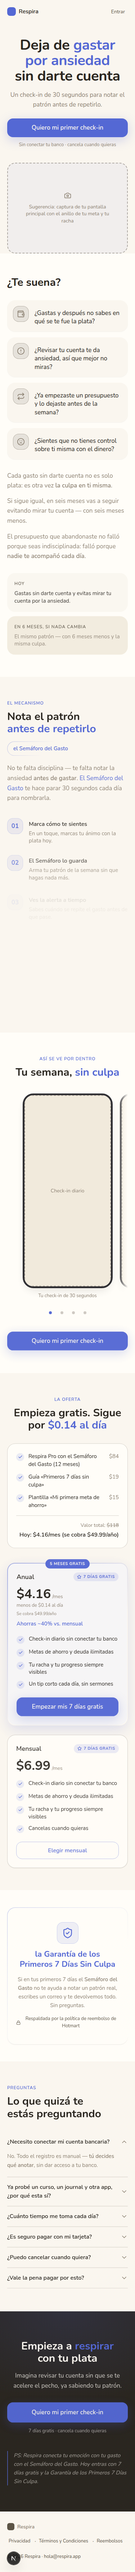
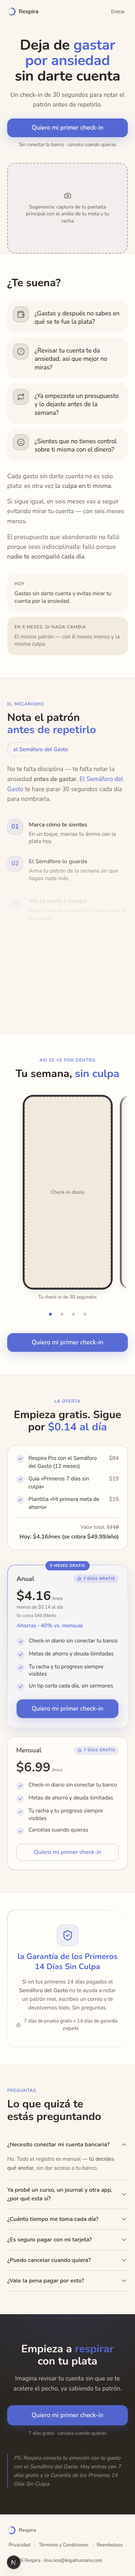
Corrige los 5 defectos del revisor-visual y completa datos legales
- /onboarding y /entrar dejan de dar 404 (páginas honestas "en construcción")
  + not-found.tsx de marca
- Contraste de --text-secondary corregido a AA (6B6152, antes 8C8172 daba 3.55:1)
- Hairline de separación real entre secciones base/elevada (ui.tsx)
- Anillo de respiración (RespiraMark) plantado en header y footer
- CTAs de la oferta unificados al mismo verbo/beneficio
- Páginas legales completadas con los datos del responsable (Lina Rios, Colombia)

Claude-Session: https://claude.ai/code/session_013BYtLeMwZuWh58hVzwvyD5

diff --git a/app/privacidad/page.tsx b/app/privacidad/page.tsx
@@ -7,13 +7,13 @@ export default function Privacidad() {
         Política de Privacidad
       </h1>
       <p className="mt-2 text-sm text-[var(--text-tertiary)]">
-        Última actualización: [pendiente — se completa al confirmar el responsable y el dominio]
+        Última actualización: 17 de septiembre de 2026
       </p>
 
       <div className="mt-8 flex flex-col gap-6 text-base leading-relaxed text-[var(--text-secondary)]">
         <p>
-          Respira (&quot;la app&quot;) es operada por [Nombre o razón social del responsable], con
-          domicilio en [país]. Esta política explica qué datos recopilamos, cómo los usamos y cómo
+          Respira (&quot;la app&quot;) es operada por Lina Rios, con
+          domicilio en Colombia. Esta política explica qué datos recopilamos, cómo los usamos y cómo
           puedes controlarlos.
         </p>
 
@@ -44,7 +44,7 @@ export default function Privacidad() {
           <h2 className="text-lg font-semibold text-[var(--text-primary)]">Cómo eliminar tus datos</h2>
           <p className="mt-2">
             Puedes pedir la eliminación completa de tu cuenta y tus datos escribiendo a{" "}
-            <a href="mailto:hola@respira.app" className="underline underline-offset-4">hola@respira.app</a>.
+            <a href="mailto:lina.rios@ikigaihumano.com" className="underline underline-offset-4">lina.rios@ikigaihumano.com</a>.
             Procesamos la solicitud en un plazo razonable y te confirmamos por correo.
           </p>
         </section>
@@ -53,7 +53,7 @@ export default function Privacidad() {
           <h2 className="text-lg font-semibold text-[var(--text-primary)]">Contacto</h2>
           <p className="mt-2">
             Para cualquier duda sobre esta política, escribe a{" "}
-            <a href="mailto:hola@respira.app" className="underline underline-offset-4">hola@respira.app</a>.
+            <a href="mailto:lina.rios@ikigaihumano.com" className="underline underline-offset-4">lina.rios@ikigaihumano.com</a>.
           </p>
         </section>
 

diff --git a/app/page.tsx b/app/page.tsx
@@ -12,6 +12,7 @@ import { Faq } from "@/components/landing/Faq";
 import { CtaFinal } from "@/components/landing/CtaFinal";
 import { FooterLegal } from "@/components/landing/FooterLegal";
 import { StickyCtaMobile } from "@/components/landing/ui";
+import { RespiraMark } from "@/components/RespiraMark";
 
 // Modelo onboarding-first (02C/ESTADO.md): el CTA lleva al onboarding gratis,
 // nunca directo al checkout — el pago se cierra en el paywall in-app (Sesión 4).
@@ -24,6 +25,7 @@ export default function LandingRespira() {
       {/* 1. HERO */}
       <Hero
         appName="Respira"
+        logo={<RespiraMark />}
         loginHref="/entrar"
         h1Marked="Deja de [acento]gastar por ansiedad[/acento] sin darte cuenta"
         subtitleMarked="Un check-in de 30 segundos para notar el patrón antes de repetirlo."
@@ -110,7 +112,7 @@ export default function LandingRespira() {
           totalAnual: "Se cobra $49.99/año",
           ahorro: "Ahorras ~40% vs. mensual",
           descomposicionDia: "menos de $0.14 al día",
-          ctaLabel: "Empezar mis 7 días gratis",
+          ctaLabel: CTA_LABEL,
           ctaHref: CTA_HREF,
           features: [
             "Check-in diario sin conectar tu banco",
@@ -122,7 +124,7 @@ export default function LandingRespira() {
         mensual={{
           nombre: "Mensual",
           precioMes: "$6.99",
-          ctaLabel: "Elegir mensual",
+          ctaLabel: CTA_LABEL,
           ctaHref: CTA_HREF,
           features: [
             "Check-in diario sin conectar tu banco",
@@ -189,7 +191,8 @@ export default function LandingRespira() {
       {/* 10. FOOTER LEGAL */}
       <FooterLegal
         appName="Respira"
-        soporteEmail="hola@respira.app"
+        logo={<RespiraMark />}
+        soporteEmail="lina.rios@ikigaihumano.com"
         enlaces={[
           { label: "Privacidad", href: "/privacidad" },
           { label: "Términos y Condiciones", href: "/terminos" },

diff --git a/app/reembolsos/page.tsx b/app/reembolsos/page.tsx
@@ -19,7 +19,7 @@ export default function Reembolsos() {
             Tienes 7 días de prueba gratis para probar Respira sin que se te cobre nada. Si ya
             pagaste y en tus primeros 14 días con el Semáforo del Gasto no logras notar un
             patrón real, escríbenos a{" "}
-            <a href="mailto:hola@respira.app" className="underline underline-offset-4">hola@respira.app</a>{" "}
+            <a href="mailto:lina.rios@ikigaihumano.com" className="underline underline-offset-4">lina.rios@ikigaihumano.com</a>{" "}
             y te devolvemos todo. Sin preguntas, sin formularios.
           </p>
         </section>
@@ -36,7 +36,7 @@ export default function Reembolsos() {
         <section>
           <h2 className="text-lg font-semibold text-[var(--text-primary)]">Cómo pedir un reembolso</h2>
           <ol className="mt-2 list-decimal pl-5">
-            <li>Escribe a <a href="mailto:hola@respira.app" className="underline underline-offset-4">hola@respira.app</a> desde el correo con el que compraste.</li>
+            <li>Escribe a <a href="mailto:lina.rios@ikigaihumano.com" className="underline underline-offset-4">lina.rios@ikigaihumano.com</a> desde el correo con el que compraste.</li>
             <li>Cuéntanos brevemente qué pasó (no es obligatorio, pero nos ayuda a mejorar).</li>
             <li>Procesamos la devolución a través de Hotmart en los plazos que su plataforma indique.</li>
           </ol>

diff --git a/app/terminos/page.tsx b/app/terminos/page.tsx
@@ -7,7 +7,7 @@ export default function Terminos() {
         Términos y Condiciones
       </h1>
       <p className="mt-2 text-sm text-[var(--text-tertiary)]">
-        Última actualización: [pendiente — se completa al confirmar el responsable y el dominio]
+        Última actualización: 17 de septiembre de 2026
       </p>
 
       <div className="mt-8 flex flex-col gap-6 text-base leading-relaxed text-[var(--text-secondary)]">
@@ -57,7 +57,7 @@ export default function Terminos() {
         <section>
           <h2 className="text-lg font-semibold text-[var(--text-primary)]">Ley aplicable</h2>
           <p className="mt-2">
-            Estos términos se rigen por las leyes de [país del responsable]. Cualquier disputa se
+            Estos términos se rigen por las leyes de Colombia. Cualquier disputa se
             resuelve ante los tribunales competentes de esa jurisdicción.
           </p>
         </section>
@@ -65,7 +65,7 @@ export default function Terminos() {
         <section>
           <h2 className="text-lg font-semibold text-[var(--text-primary)]">Contacto</h2>
           <p className="mt-2">
-            <a href="mailto:hola@respira.app" className="underline underline-offset-4">hola@respira.app</a>
+            <a href="mailto:lina.rios@ikigaihumano.com" className="underline underline-offset-4">lina.rios@ikigaihumano.com</a>
           </p>
         </section>
 

diff --git a/components/landing/ui.tsx b/components/landing/ui.tsx
@@ -109,11 +109,16 @@ export function SectionShell({
 }) {
   const pt = flush === 'top' ? 'pt-0' : compacta ? 'pt-12 md:pt-16' : 'pt-16 md:pt-24';
   const pb = flush === 'bottom' ? 'pb-8 md:pb-10' : compacta ? 'pb-12 md:pb-16' : 'pb-16 md:pb-24';
+  // Hairline en las transiciones REALES base<->elevada (nunca entre secciones flush,
+  // que son un solo movimiento visual): sin esto la alternancia es imperceptible a 375px.
+  const borderTop = elevacion === 'elevada' && flush !== 'top' ? 'border-t' : '';
+  const borderBottom = elevacion === 'elevada' && flush !== 'bottom' ? 'border-b' : '';
+  const borderColor = 'border-[color-mix(in_oklab,var(--text-tertiary)_14%,transparent)]';
   return (
     <section
       id={id}
       aria-label={ariaLabel}
-      className={`${elevacion === 'elevada' ? 'bg-[var(--surface)]' : ''} ${pt} ${pb} ${className}`}
+      className={`${elevacion === 'elevada' ? 'bg-[var(--surface)]' : ''} ${borderTop} ${borderBottom} ${borderTop || borderBottom ? borderColor : ''} ${pt} ${pb} ${className}`}
     >
       <div className="mx-auto w-full max-w-[1140px] px-5">{children}</div>
     </section>

diff --git a/app/onboarding/page.tsx b/app/onboarding/page.tsx
@@ -1,0 +1,25 @@
+import Link from "next/link";
+import { RespiraMark } from "@/components/RespiraMark";
+
+export const metadata = { title: "Respira — tu primer check-in" };
+
+export default function Onboarding() {
+  return (
+    <main className="flex min-h-dvh flex-col items-center justify-center gap-6 px-4 py-16 text-center text-[var(--text-primary)] [font-family:var(--font-body)]">
+      <RespiraMark />
+      <h1 className="max-w-xs text-2xl font-bold [font-family:var(--font-display)]">
+        Estamos terminando tu primer check-in
+      </h1>
+      <p className="max-w-sm text-base leading-relaxed text-[var(--text-secondary)]">
+        Todavía estamos construyendo esta parte de Respira. Vuelve pronto — muy pronto vas a poder
+        empezar tu primer check-in de 30 segundos aquí mismo.
+      </p>
+      <Link
+        href="/"
+        className="mt-2 text-sm font-semibold text-[var(--accent)] underline underline-offset-4"
+      >
+        Volver al inicio
+      </Link>
+    </main>
+  );
+}

diff --git a/app/entrar/page.tsx b/app/entrar/page.tsx
@@ -1,0 +1,25 @@
+import Link from "next/link";
+import { RespiraMark } from "@/components/RespiraMark";
+
+export const metadata = { title: "Entrar a Respira" };
+
+export default function Entrar() {
+  return (
+    <main className="flex min-h-dvh flex-col items-center justify-center gap-6 px-4 py-16 text-center text-[var(--text-primary)] [font-family:var(--font-body)]">
+      <RespiraMark />
+      <h1 className="max-w-xs text-2xl font-bold [font-family:var(--font-display)]">
+        Estamos preparando el ingreso
+      </h1>
+      <p className="max-w-sm text-base leading-relaxed text-[var(--text-secondary)]">
+        Todavía estamos construyendo el inicio de sesión de Respira. Si ya tienes cuenta, pronto
+        vas a poder entrar desde aquí.
+      </p>
+      <Link
+        href="/"
+        className="mt-2 text-sm font-semibold text-[var(--accent)] underline underline-offset-4"
+      >
+        Volver al inicio
+      </Link>
+    </main>
+  );
+}

diff --git a/app/not-found.tsx b/app/not-found.tsx
@@ -1,0 +1,22 @@
+import Link from "next/link";
+import { RespiraMark } from "@/components/RespiraMark";
+
+export default function NotFound() {
+  return (
+    <main className="flex min-h-dvh flex-col items-center justify-center gap-6 bg-[var(--bg)] px-4 py-16 text-center text-[var(--text-primary)] [font-family:var(--font-body)]">
+      <RespiraMark />
+      <h1 className="max-w-xs text-2xl font-bold [font-family:var(--font-display)]">
+        No encontramos esta página
+      </h1>
+      <p className="max-w-sm text-base leading-relaxed text-[var(--text-secondary)]">
+        Puede que el enlace esté roto o que esta parte de Respira todavía no exista.
+      </p>
+      <Link
+        href="/"
+        className="mt-2 text-sm font-semibold text-[var(--accent)] underline underline-offset-4"
+      >
+        Volver al inicio
+      </Link>
+    </main>
+  );
+}

diff --git a/components/RespiraMark.tsx b/components/RespiraMark.tsx
@@ -1,0 +1,21 @@
+// El dispositivo ownable de FICHA-ARTE.md: el anillo de respiración (75% lleno,
+// el mismo gesto que la pantalla principal de la app) — la marca de Respira en
+// vez de un cuadrado genérico.
+export function RespiraMark() {
+  return (
+    <svg width="24" height="24" viewBox="0 0 24 24" fill="none" aria-hidden="true">
+      <circle cx="12" cy="12" r="9.5" stroke="var(--accent)" strokeOpacity="0.18" strokeWidth="3" />
+      <circle
+        cx="12"
+        cy="12"
+        r="9.5"
+        stroke="var(--accent)"
+        strokeWidth="3"
+        strokeLinecap="round"
+        strokeDasharray="44.7"
+        strokeDashoffset="11.2"
+        transform="rotate(-90 12 12)"
+      />
+    </svg>
+  );
+}

diff --git a/components/landing/tokens.css b/components/landing/tokens.css
@@ -24,7 +24,7 @@
 
   /* ── TEXTO (casi-negro CON tinte, familia única de neutros) ── */
   --text-primary: #2a2620;
-  --text-secondary: #8c8172;
+  --text-secondary: #6b6152;  /* ~5.6-6:1 sobre --bg/--surface (revisor-visual: #8c8172 daba 3.55:1, bajo AA) */
   --text-tertiary: #5c5446;   /* ≥4.5:1 sobre --bg/--surface/--surface-2 */
 
   /* ── MARCA ── */

diff --git a/ESTADO.md b/ESTADO.md
@@ -86,7 +86,7 @@ App de hábito diario que acompaña a mujeres 25-35 LATAM a dejar de gastar por 
 - Sesión 5: app interna simplificada (ahí se toman los screenshots reales para el carrusel de la landing).
 
 ## Problemas conocidos ⚠
-- veredicto:landing — el subagente `revisor-visual` fue lanzado (obligatorio: la landing es una de las 4 pantallas del dinero) y está corriendo en paralelo; `docs/revisiones/landing-veredicto.md` todavía no existe. No declarar la landing "lista" hasta que ese archivo tenga Veredicto/Usabilidad/Craft. Se resuelve solo con el resultado del subagente, no autoevaluándose.
+- veredicto:landing — 1ª pasada del `revisor-visual`: NO LISTA (usabilidad 27/40, craft 13/20). 5 defectos corregidos: (1) `/onboarding` y `/entrar` ya no dan 404 (páginas honestas "en construcción" + `not-found.tsx` de marca), (2) `--text-secondary` de tokens.css bajado a `#6B6152` (antes `#8C8172` daba 3.55:1, ahora ~5.6-6:1 AA), (3) hairline de separación en `SectionShell` (ui.tsx) entre bloques base/elevado reales (respeta `flush` para no partir Problema+Agitación), (4) anillo de respiración (`components/RespiraMark.tsx`) plantado en el header y el footer en vez del cuadrado genérico, (5) los 3 CTA de Oferta unificados a `CTA_LABEL`. Screenshot re-renderizado en `docs/revisiones/landing-375.png`. Se relanzó el revisor-visual para la 2ª pasada — veredicto pendiente.
 - carrusel "La app por dentro": usa 4 placeholders honestos rotulados (Check-in diario / Metas / Pantalla principal / Reporte semanal) porque la app interna todavía no existe — se reemplazan por screenshots reales al cerrar la Sesión 5 (regla dura de 19 §5). No declarar la landing "100% terminada" hasta ese reemplazo.
 - FICHA-MERCADO.md tiene varios campos "NO ENCONTRADO" — los precios/plazos que dio el usuario en el RESUMEN no traen fuente+fecha propia; se usan como punto de partida pero se marcan para verificación antes de fijar precio final en Hotmart.
 - Garantía (footer/reembolsos): el piso legal dice "política de reembolso de Hotmart" SIN número de días porque Hotmart aún no está configurado (Sesión 6) — no prometer un plazo exacto hasta configurarlo.
@@ -94,7 +94,9 @@ App de hábito diario que acompaña a mujeres 25-35 LATAM a dejar de gastar por 
 
 ## Pendientes del usuario (acciones que el usuario debe hacer)
 - [ ] (no bloqueante) Verificar "Respira" en el registro oficial de marcas (SIC/IMPI) antes de comprar dominio.
-- [ ] Dar 3 datos para las páginas legales: tu nombre o razón social, el país desde el que operas, y si quieres usar `hola@respira.app` como correo de soporte o prefieres otro (esto no bloquea seguir construyendo — se completa antes de vender).
+
+## Datos del responsable (para las páginas legales — confirmados por el usuario 2026-09-17)
+- Responsable: Lina Rios · País: Colombia · Correo de soporte/legal: lina.rios@ikigaihumano.com (provisional hasta que exista un dominio propio — cuando se compre el dominio, cambiar a un correo con ese dominio en las 3 páginas legales + FooterLegal).
 
 ## Notas para la próxima sesión
 - El usuario ya trae el RESUMEN FINAL validado — no se debe re-investigar mercado desde cero, solo completar los huecos de fuente+fecha en FICHA-MERCADO.md cuando se fije el precio definitivo.

diff --git a/docs/revisiones/landing-veredicto.md b/docs/revisiones/landing-veredicto.md
@@ -1,0 +1,14 @@
+# VEREDICTO revisor-visual — landing
+Fecha: 2026-09-17 14:00
+Screenshot: docs/revisiones/landing-375.png
+Usabilidad: 27/40
+Craft: 13/20
+Copy (si vende): 17/20
+Fidelidad (si hubo referencia): N-A
+Veredicto: NO LISTA
+Top defectos:
+1. [CTA repetido: Hero, AppPorDentro, Oferta, CtaFinal, sticky + "Entrar" del header] apuntan a /onboarding y /entrar, rutas que no existen en app/ (no hay app/onboarding ni app/entrar ni not-found.tsx custom) → el botón más repetido de toda la página termina en el 404 genérico de Next → fix: publicar al menos un placeholder honesto en /onboarding y /entrar (o feature-flag el href) antes de dar la landing por "vendible".
+2. [Texto secundario en toda la página: subtítulo del hero, párrafos de Agitación, pasos de Solución, respuestas del FAQ] usan --text-secondary #8C8172 sobre #FAF6EF/#FFFDF8 ≈ 3.55:1, por debajo del 4.5:1 AA que exige la Regla UX #10 → fix: oscurecer --text-secondary (p.ej. ~#7A6F60) sin salir de la familia cálida, y reverificar contraste tras el cambio.
+3. [Sección "Así se ve por dentro" vs. secciones vecinas "El mecanismo" y "La oferta"] --surface (#FFFDF8) y --bg (#FAF6EF) difieren ~5-9 unidades RGB: la alternancia base/elevado es imperceptible a 375px, las secciones se funden en un mismo plano → fix: aumentar el salto de luminancia entre --bg y --surface o agregar un separador/hairline visible.
+4. [Hero — placeholder del visual, único lugar donde se sugiere el dispositivo] el "anillo de respiración" (dispositivo ownable de FICHA-ARTE) no se ve dibujado en ningún punto real de la landing, solo se lo describe en el texto del placeholder ("...con el anillo de tu meta...") → fix: plantar un SVG simple del anillo en el hero, chips o CTA para que la identidad se vea, no solo se lea, aun sin el screenshot final de la app.
+5. [Copy de los CTA: Hero/AppPorDentro/CtaFinal dicen "Quiero mi primer check-in"; Oferta-anual dice "Empezar mis 7 días gratis"; Oferta-mensual dice "Elegir mensual"] misma acción, tres redacciones distintas → diluye la "acción única repetida" que pide la rúbrica de copy → fix: unificar el verbo/beneficio (mantener "check-in"/"gratis" o el mismo verbo en 1ª persona) en las tres variantes.
